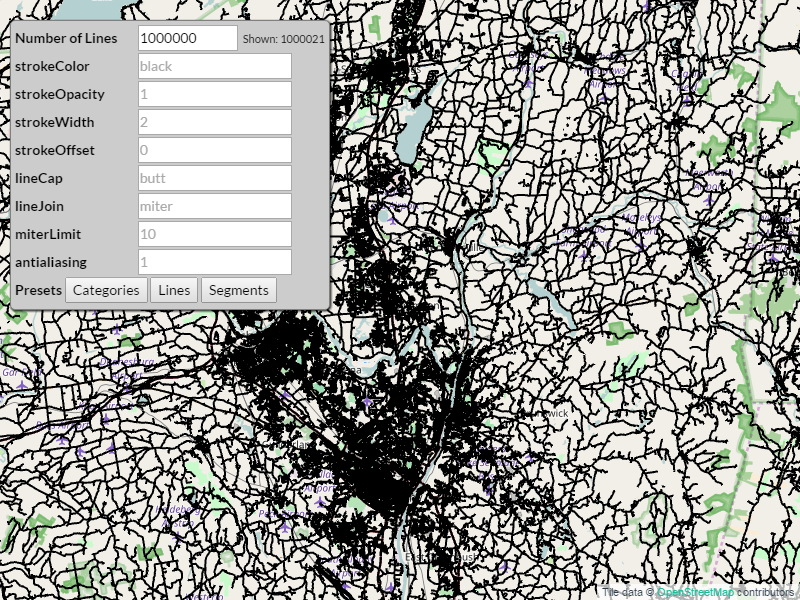
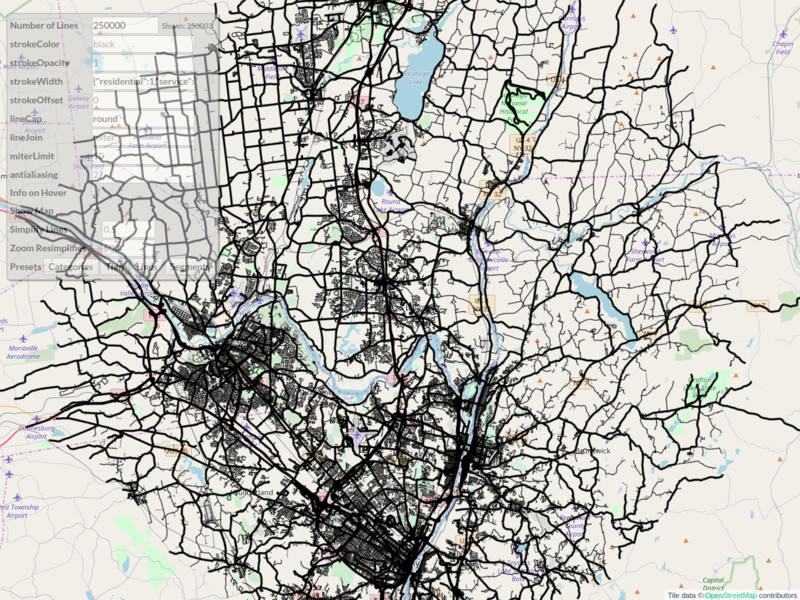
Update the lines example to allow simplifying lines.

diff --git a/examples/lines/main.js b/examples/lines/main.js
@@ -4,6 +4,14 @@
 $(function () {
   'use strict';
 
+  function lineAccessor(data, index) {
+    return data.data;
+  }
+
+  function positionAccessor(data, index) {
+    return {x: data[0], y: data[1]};
+  }
+
   // Get query parameters
   var query = utils.getQuery();
 
@@ -16,7 +24,8 @@ $(function () {
     },
     zoom: 11
   });
-  var osm, mapUrl, layer, lineFeature, lines, rawdata, skipdraw;
+  var osm, mapUrl, layer, lineFeature, lines, rawdata, reduceddata, skipdraw,
+      lastSimplifyZoom, resimplifyTimeout;
 
   // By default, use the best renderer that supports lines.  This can be
   // changed on with the 'renderer' query parameter to force a particular
@@ -80,14 +89,22 @@ $(function () {
           lines = ctlvalue = parseInt(value, 10);
         }
         break;
-      case 'showmap':
-        ctlvalue = value !== 'false';
-        break;
       case 'miterLimit':
         value = value.length ? parseFloat(value) : undefined;
         if (!isNaN(value) && value > 0 && value !== undefined) {
           lineOptions.style[key] = ctlvalue = value;
         }
+        break;
+      case 'resimplify':
+      case 'showmap':
+      case 'simplify':
+        ctlvalue = value !== 'false';
+        break;
+      case 'resimplify_delay':
+        ctlvalue = value.length ? parseInt(value) : undefined;
+        break;
+      case 'simplify_tolerance':
+        ctlvalue = value.length ? parseFloat(value) : undefined;
         break;
     }
     if (ctlvalue !== undefined) {
@@ -124,11 +141,13 @@ $(function () {
    * Given a set of lines, optionally truncate or expand it, then show it as a
    * lineFeature.
    *
-   * @param {array} rawdata: an array of lines to show.  Each entry contains an
+   * @param {array} rawdata An array of lines to show.  Each entry contains an
    *    object that has a 'data' element which is an array of points that form
    *    the line.
+   * @param {boolean} [simplify] If present, use this as the flag to decide if
+   *    lines should be simplified.
    */
-  function show_lines(rawdata) {
+  function show_lines(rawdata, simplify) {
     $('#map').removeClass('ready').attr('segments', '');
     if (!rawdata) {
       return;
@@ -140,9 +159,21 @@ $(function () {
     for (numlines = 0; numlines < rawdata.length && segments < maxsegments; numlines += 1) {
       segments += rawdata[numlines].data.length - 1;
     }
-    var data = rawdata.slice(0, numlines);
-    lineFeature.data(data);
-    lineFeature.draw();
+    reduceddata = rawdata.slice(0, numlines);
+    if (simplify === undefined) {
+      simplify = query.simplify;
+    }
+    if (!simplify || simplify === 'false') {
+      // set the data, and reset the line and position accessors in case we
+      // changed them with the line simplication
+      lineFeature.data(reduceddata)
+        .line(lineAccessor)
+        .position(positionAccessor);
+      lineFeature.draw();
+      $('#simple-lines-shown').text('').attr('title', '');
+    } else {
+      simplify_lines(reduceddata);
+    }
     var text = 'Shown: ' + segments;
     $('#lines-shown').text(text).attr('title', text);
     map.onIdle(function () {
@@ -151,12 +182,73 @@ $(function () {
   }
 
   /**
+   * When the map is zoomed, if resimplifying lines is active, set a timer to
+   * do so after the currently specified delay.
+   *
+   * @param {geo.event} evt geojs event that triggered this call.
+   */
+  function resimplifyOnZoom(evt) {
+    if (resimplifyTimeout) {
+      window.cancelTimeout(resimplifyTimeout);
+      resimplifyTimeout = null;
+    }
+    if (!query.simplify || query.simplify === 'false' ||
+        !query.resimplify || query.resimplify === 'false') {
+      return;
+    }
+    window.setTimeout(function () {
+      resimplifyTimeout = null;
+      if (map.zoom() !== lastSimplifyZoom) {
+        simplify_lines(reduceddata);
+      }
+    }, parseInt(query.resimplify_delay, 10) || 500);
+  }
+
+  /**
+   * Simplify lines based on the current zoom level.
+   *
+   * @param {array} data The data to simplify.
+   * @param {number} [tolerance=query.simplify_tolerance] The tolerance in
+   *    pixels at the current map zoom level.
+   */
+  function simplify_lines(data, tolerance) {
+    if (!data) {
+      return;
+    }
+    lastSimplifyZoom = map.zoom();
+    if (resimplifyTimeout) {
+      window.cancelTimeout(resimplifyTimeout);
+      resimplifyTimeout = null;
+    }
+    tolerance = parseFloat(tolerance !== undefined ? tolerance : query.simplify_tolerance || 0.5);
+    lineFeature.rdpSimplifyData(
+      data,
+      map.unitsPerPixel(map.zoom()) * tolerance,
+      positionAccessor,
+      lineAccessor);
+    lineFeature.draw();
+    var segments = 0,
+        lineFunc = lineFeature.line();
+    lineFeature.data().forEach(function (d, i) {
+      var len = lineFunc(d, i).length;
+      segments += len >= 2 ? len - 1 : 0;
+    });
+    var text = 'Shown: ' + segments;
+    $('#simple-lines-shown').text(text).attr('title', text);
+    text = $('#lines-shown').text();
+    if (text.indexOf('Shown') === 0) {
+      text = 'Used' + text.substr(5);
+      $('#lines-shown').text(text).attr('title', text);
+    }
+  }
+
+  /**
    * For styles that can vary, parse the string and either return a simple
    * string or a function that computes the value.
    *
-   * @param {string} key: the property key.  Used to get a default value if
+   * @param {string} key the property key.  Used to get a default value if
    *    needed.
-   * @param {string} value: the string form of the value.  If this has a { in
+   * @param {string} value the string form of the value.  If this has a { in
    *    it, it is parsed as a JSON dictionary, and expects to be a list of
    *    category names which are used to determine the values.  These values
    *    applied uniformly per line.  Otherwise, if this has a , in it, it is a
@@ -204,7 +296,7 @@ $(function () {
   /**
    * Handle changes to our controls.
    *
-   * @param {object} evt jquery evt that triggered this call.
+   * @param {object} evt jquery event that triggered this call.
    */
   function change_controls(evt) {
     var ctl = $(evt.target),
@@ -257,9 +349,6 @@ $(function () {
         lines = parseInt(value);
         show_lines(rawdata);
         break;
-      case 'showmap':
-        set_osm_url(value);
-        break;
       case 'miterLimit':
         value = value.length ? parseFloat(value) : undefined;
         if (isNaN(value) || value <= 0 || value === undefined) {
@@ -270,6 +359,30 @@ $(function () {
         if (!skipdraw) {
           lineFeature.draw();
         }
+        break;
+      case 'showmap':
+        set_osm_url(value);
+        break;
+      case 'simplify':
+        if (!processedValue) {
+          show_lines(rawdata, false);
+        } else {
+          simplify_lines(reduceddata);
+        }
+        break;
+      case 'simplify_tolerance':
+        processedValue = value.length ? parseFloat(value) : undefined;
+        if (query.simplify) {
+          simplify_lines(reduceddata, processedValue);
+        }
+        break;
+      case 'resimplify':
+        if (processedValue && query.simplify && query.simplify !== 'false' &&
+            map.zoom() !== lastSimplifyZoom) {
+          simplify_lines(reduceddata);
+        }
+        break;
+      case 'resimplify_delay':
         break;
     }
     // Update the url to reflect the changes
@@ -286,7 +399,7 @@ $(function () {
   /**
    * Handle selecting a preset button.
    *
-   * @param {object} evt: jquery event with the triggered button.
+   * @param {object} evt jquery event with the triggered button.
    */
   function select_preset(evt) {
     var update;
@@ -315,7 +428,7 @@ $(function () {
   /**
    * Set the map to either use the original default url or a blank white image.
    *
-   * @param {string} value: 'false' to use a white image, anything else to use
+   * @param {string} value 'false' to use a white image, anything else to use
    *    the original url.
    */
   function set_osm_url(value) {
@@ -341,12 +454,8 @@ $(function () {
       'hidden');
   // Ceate a line feature
   lineFeature = layer.createFeature('line', lineOptions)
-    .line(function (d) {
-      return d.data;
-    })
-    .position(function (d) {
-      return {x: d[0], y: d[1]};
-    })
+    .line(lineAccessor)
+    .position(positionAccessor)
     // add hover events -- use mouseon and mouseoff, since we only show one
     // tootip.  If we showed one tooltip per item we were over, use mouseover
     // and mouseout.
@@ -361,7 +470,8 @@ $(function () {
     })
     .geoOn(geo.event.feature.mouseoff, function (evt) {
       tooltipElem.addClass('hidden');
-    });
+    })
+    .geoOn(geo.event.zoom, resimplifyOnZoom);
 
   // Make some values available in the global context so curious people can
   // play with them.

diff --git a/examples/lines/main.css b/examples/lines/main.css
@@ -29,7 +29,7 @@
 #controls #lines {
   width: 100px;
 }
-#controls #lines-loaded,#controls #lines-shown {
+#controls #lines-loaded,#controls #lines-shown,#controls #simple-lines-shown {
   display: inline-block;
   font-size: 11px;
   padding-left: 5px;
@@ -58,3 +58,7 @@
   font-size: 12px;
   color: black;
 }
+#controls #simplify_tolerance,#controls #resimplify_delay {
+  width: 80px;
+}
+
